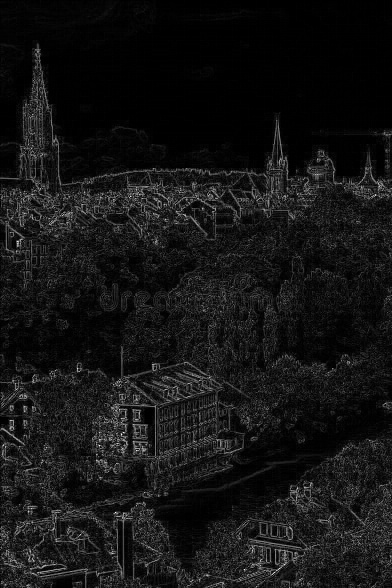
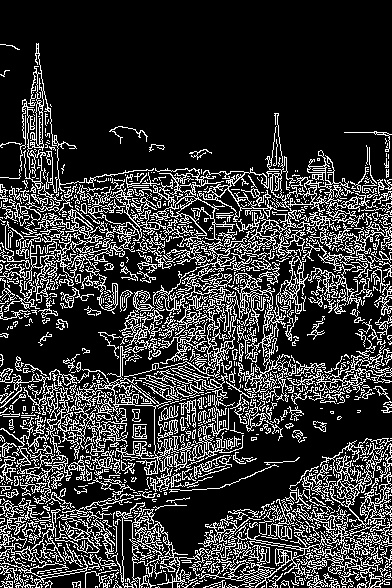
a

diff --git a/bordesCV2.py b/bordesCV2.py
@@ -1,0 +1,44 @@
+import os
+import cv2
+import numpy as np
+
+
+def edge_detection(img_path):
+    print(img_path)
+    # img = cv2.imread("edificio_con_arboles.jpg")
+    # img_path = input("Ingrese la ruta de la imagen: ")
+    img = cv2.imread(img_path)
+    # img = cv2.imread("popular.jpg")
+    img_gray = cv2.cvtColor(img, cv2.COLOR_BGR2GRAY)
+
+    # cv2.imwrite("gray.jpg", img_color)
+
+    height, width = img_gray.shape[:2]
+    print(f"height: {height}, width: {width}")
+    # new_image = np.zeros(img.shape)
+    # x_image = np.zeros((height, width), np.uint8)
+    # y_image = np.zeros((height, width), np.uint8)
+
+    # #set a thresh
+    # thresh = 100
+    # #get threshold image
+    # ret,thresh_img = cv2.threshold(img_gray, thresh, 255, cv2.THRESH_BINARY)
+    # #find contours
+    # contours, hierarchy = cv2.findContours(thresh_img, cv2.RETR_TREE, cv2.CHAIN_APPROX_SIMPLE)
+
+    # # draw the contours on the empty image
+    # cv2.drawContours(new_image, contours, -1, (255,255,255), 1)
+
+    t_lower = 50  # Lower Threshold
+    t_upper = 150  # Upper threshold
+  
+    # Applying the Canny Edge filter
+    new_image = cv2.Canny(img_gray, t_lower, t_upper)
+
+    cv2.imwrite(f"../bordes/BORDES-{img_path}", new_image)
+    # print(new_image[0, :])
+
+
+os.chdir("./discord-imagenes")
+for img in os.listdir():
+    edge_detection(img)
